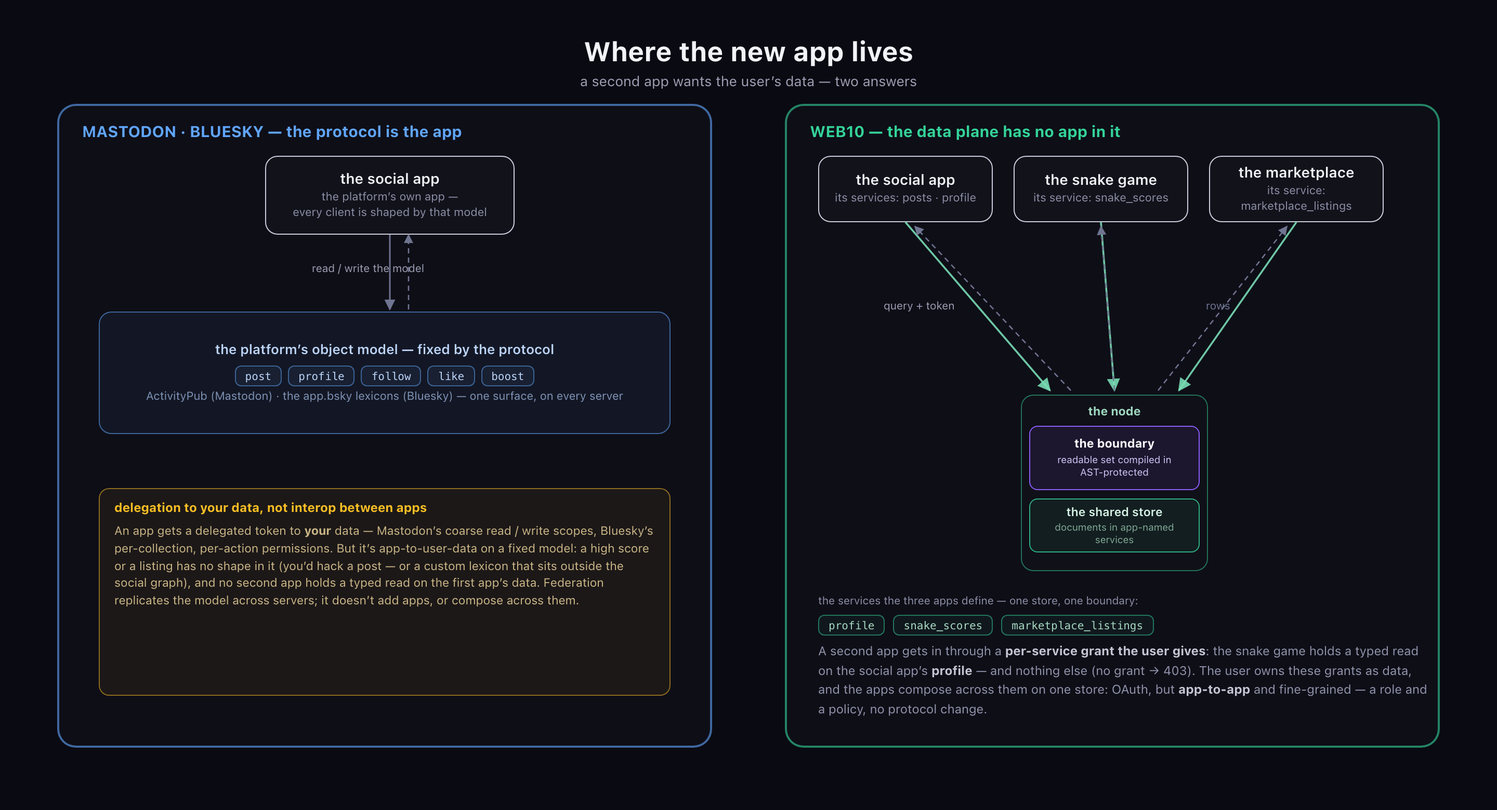
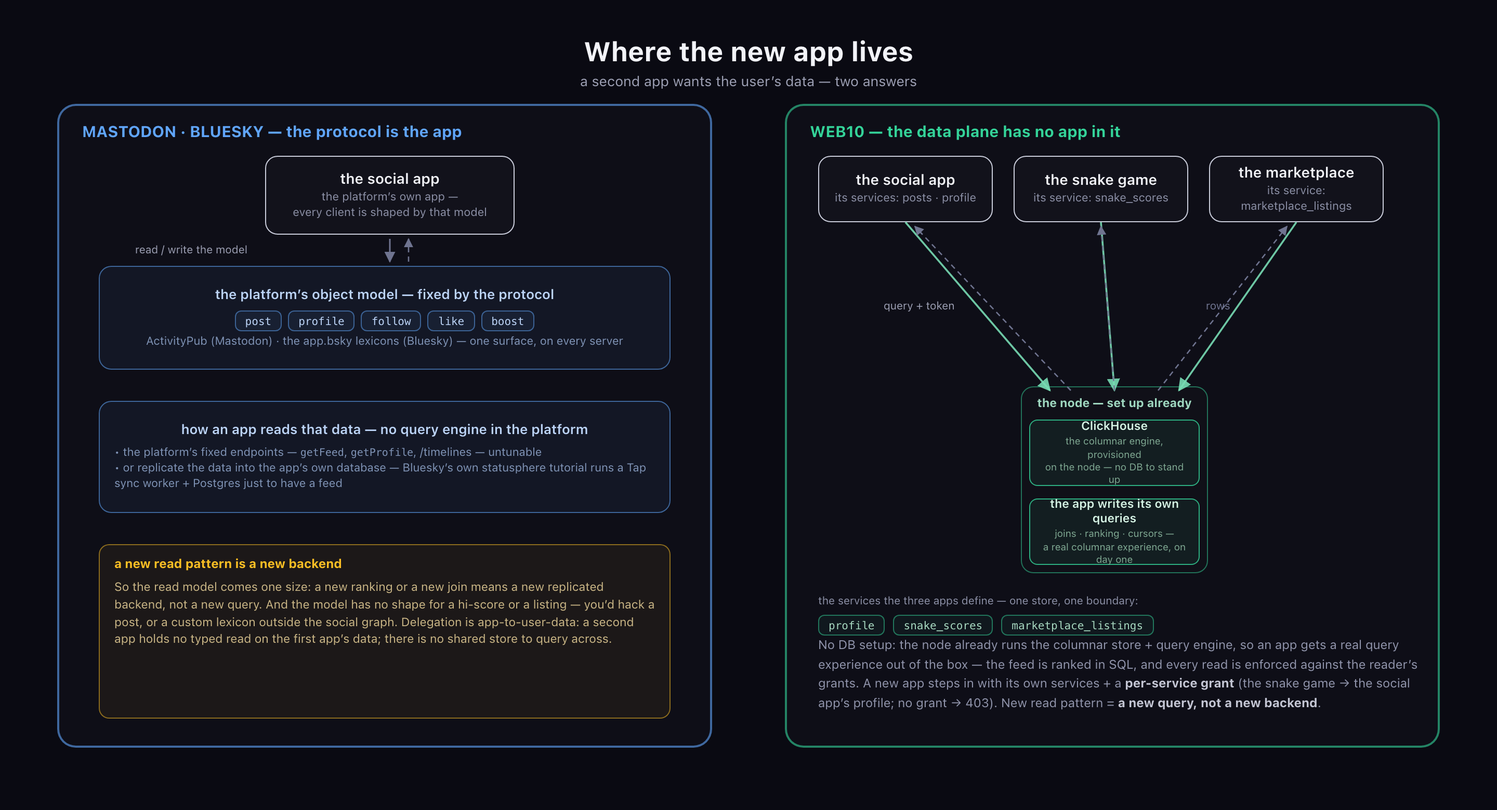
docs(research): fig-platforms re-anchored on the query engine — 'a new read pattern is a new backend', no DB setup, boundary out; figure B title polish ('— a breakdown' out)

diff --git a/research/second-draft/figs/fig-platforms.html b/research/second-draft/figs/fig-platforms.html
@@ -1,29 +1,42 @@
 <!doctype html>
 <!--
   Source for fig-platforms.png ("Where the new app lives").
-  The extensibility / interop fork, orthogonal to fig-composition (the
-  composition fork vs. Solid). The axis: how a SECOND app gets access to,
-  and composes with, EXISTING user data.
-  - MASTODON/BLUESKY: delegation to the user's data, on a fixed social
-    model. Mastodon grants coarse read/write OAuth scopes to the whole
-    model; Bluesky (AT Protocol) grants per-collection, per-action
-    permissions to the user's own repo (atproto.com/specs/permission).
-    Both are app-to-user-data, not app-to-app: a high score or a listing
-    has no shape in the social model (you'd hack a post, or a custom
-    lexicon that sits outside the social graph), and no second app holds a
-    typed read on the first app's data. No shared store to compose across.
-  - WEB10: a per-service grant, app-to-app, on a shared store. Each app
-    defines its own services in the user's store (profile, snake_scores,
-    marketplace_listings — the pinned interop names); the game and the
-    marketplace each hold a typed read on the social app's profile, join it
-    in SQL, and an ungranted app gets 403 (research/interoperability-demo).
-    It's OAuth, but app-to-app and fine-grained: a role and a policy.
-  Evidence to keep this "as clear as day": Mastodon OAuth scope docs;
-  atproto permission spec (verify version/section before printing in §9,
-  per related-work.md — the comparative gap stays OPEN). The web10 side is
-  pinned by the connected interop experiment.
-  The violet boundary box is the same mechanism as fig-composition and
-  fig-query-engine. No verdict line: the comparison lives in the caption.
+  The extensibility fork, orthogonal to fig-composition (the composition
+  fork vs. Solid). The axis: how a SECOND app reads and composes with
+  EXISTING user data — and where its queries run.
+  - MASTODON/BLUESKY: no query engine in the platform. The app either
+    calls the platform's fixed read endpoints (Bluesky's AppView
+    getFeed/getProfile; Mastodon's /timelines, /statuses — untunable), or
+    replicates public records into the app's OWN database — Bluesky's own
+    statusphere tutorial (atproto.com/guides/statusphere-tutorial) stands
+    up a Tap sync worker + Postgres just to have a feed, then queries its
+    own copy. So a new read pattern is a new backend; the read model comes
+    one size that doesn't scale. The object model (post, profile, follow,
+    like, boost) is fixed by the protocol; a hi-score or a listing has no
+    shape in it (hack a post, or a custom lexicon outside the social
+    graph). Delegation is app-to-user-data: Mastodon's coarse read/write
+    scopes; Bluesky's per-collection, per-action permissions
+    (atproto.com/specs/permission) — but no second app holds a typed read
+    on the first app's data, and there's no shared store to query across.
+  - WEB10: the columnar experience is already on the node, with no DB
+    setup. The node provisions ClickHouse + the query engine; the app
+    writes its own SELECT (the feed is ranked in SQL — feed.ts's
+    buildFeedQuery — joins, aggregation, cursors) on day one, every read
+    enforced against the reader's grants. Each app defines its own services
+    (profile, snake_scores, marketplace_listings — the pinned interop
+    names); the game and the marketplace hold a typed per-service read on
+    the social app's profile; an ungranted app gets 403
+    (research/interoperability-demo). New read pattern = a new query, not a
+    new backend: a role and a policy.
+  Evidence to keep this "as clear as day": Mastodon OAuth scope docs; the
+  atproto permission spec + the statusphere tutorial (both checked
+  05.11.2026); feed.ts's buildFeedQuery; the connected interop
+  experiment. Verify spec version/section before printing in §9
+  (related-work.md — the comparative gap stays OPEN).
+  The violet boundary box was dropped from this figure — it is
+  fig-query-engine's hero; here the point is the columnar engine already on
+  the node, not the enforcement. No verdict line: the comparison lives in
+  the caption.
   Render with ./capture.mjs fig-platforms.
 -->
 <html>
@@ -103,7 +116,7 @@
     <div class="s">the platform&rsquo;s own app &mdash;<br>every client is shaped by that model</div>
   </div>
 
-  <div class="box model" style="left: 95px; top: 300px; width: 550px; height: 118px;">
+  <div class="box model" style="left: 95px; top: 256px; width: 550px; height: 100px;">
     <div class="t">the platform&rsquo;s object model &mdash; fixed by the protocol</div>
     <div class="chiprow">
       <span class="chip blue">post</span><span class="chip blue">profile</span><span class="chip blue">follow</span><span class="chip blue">like</span><span class="chip blue">boost</span>
@@ -111,15 +124,22 @@
     <div class="s">ActivityPub (Mastodon) &middot; the app.bsky lexicons (Bluesky) &mdash; one surface, on every server</div>
   </div>
 
-  <div class="neg" style="left: 95px; top: 470px; width: 550px; height: 200px;">
-    <div class="t">delegation to your data, not interop between apps</div>
-    An app gets a delegated token to <b>your</b> data &mdash; Mastodon&rsquo;s
-    coarse read / write scopes, Bluesky&rsquo;s per-collection, per-action
-    permissions. But it&rsquo;s app-to-user-data on a fixed model: a high
-    score or a listing has no shape in it (you&rsquo;d hack a post &mdash; or a
-    custom lexicon that sits outside the social graph), and no second app
-    holds a typed read on the first app&rsquo;s data. Federation replicates
-    the model across servers; it doesn&rsquo;t add apps, or compose across them.
+  <div class="box model" style="left: 95px; top: 386px; width: 550px; height: 108px; text-align: left;">
+    <div class="t" style="text-align: center;">how an app reads that data &mdash; no query engine in the platform</div>
+    <div class="s" style="margin-top: 8px;">
+      &bull; the platform&rsquo;s fixed endpoints &mdash; <span style="font-family:'SF Mono',Menlo,monospace; font-size:10px;">getFeed</span>, <span style="font-family:'SF Mono',Menlo,monospace; font-size:10px;">getProfile</span>, /timelines &mdash; untunable<br>
+      &bull; or replicate the data into the app&rsquo;s own database &mdash; Bluesky&rsquo;s own statusphere tutorial runs a Tap sync worker + Postgres just to have a feed
+    </div>
+  </div>
+
+  <div class="neg" style="left: 95px; top: 524px; width: 550px; height: 168px;">
+    <div class="t">a new read pattern is a new backend</div>
+    So the read model comes one size: a new ranking or a new join means a new
+    replicated backend, not a new query. And the model has no shape for a
+    hi-score or a listing &mdash; you&rsquo;d hack a post, or a custom lexicon
+    outside the social graph. Delegation is app-to-user-data: a second app
+    holds no typed read on the first app&rsquo;s data; there is no shared
+    store to query across.
   </div>
 
   <!-- WEB10 panel -->
@@ -139,27 +159,27 @@
     <div class="s">its service: marketplace_listings</div>
   </div>
 
-  <div class="nodecard" style="left: 982px; top: 380px;"><div class="n">the node</div></div>
-  <div class="boundary" style="left: 990px; top: 410px;">
-    <div class="t">the boundary</div>
-    <div class="s">readable set compiled in<br>AST-protected</div>
+  <div class="nodecard" style="left: 982px; top: 372px; height: 180px;"><div class="n">the node &mdash; set up already</div></div>
+  <div class="store" style="left: 990px; top: 404px; height: 64px;">
+    <div class="t">ClickHouse</div>
+    <div class="s">the columnar engine, provisioned<br>on the node &mdash; no DB to stand up</div>
   </div>
-  <div class="store" style="left: 990px; top: 480px;">
-    <div class="t">the shared store</div>
-    <div class="s">documents in app-named services</div>
+  <div class="store" style="left: 990px; top: 480px; height: 64px;">
+    <div class="t">the app writes its own queries</div>
+    <div class="s">joins &middot; ranking &middot; cursors &mdash;<br>a real columnar experience, on day one</div>
   </div>
 
   <div class="slabel" style="left: 787px; top: 572px;">the services the three apps define &mdash; one store, one boundary:</div>
   <div style="position: absolute; left: 787px; top: 592px; display: flex; gap: 8px;">
     <span class="chip">profile</span><span class="chip">snake_scores</span><span class="chip">marketplace_listings</span>
   </div>
-  <div class="note" style="left: 787px; top: 618px; width: 590px;">
-    A second app gets in through a <b>per-service grant the user gives</b>:
-    the snake game holds a typed read on the social app&rsquo;s <b>profile</b>
-    &mdash; and nothing else (no grant &rarr; 403). The user owns these grants
-    as data, and the apps compose across them on one store: OAuth, but
-    <b>app-to-app</b> and fine-grained &mdash; a role and a policy, no protocol
-    change.
+  <div class="note" style="left: 787px; top: 612px; width: 590px;">
+    No DB setup: the node already runs the columnar store + query engine, so
+    an app gets a real query experience out of the box &mdash; the feed is
+    ranked in SQL, and every read is enforced against the reader&rsquo;s
+    grants. A new app steps in with its own services + a <b>per-service
+    grant</b> (the snake game &rarr; the social app&rsquo;s profile; no grant
+    &rarr; 403). New read pattern = <b>a new query, not a new backend</b>.
   </div>
 
   <!-- arrows -->
@@ -173,8 +193,8 @@
       </marker>
     </defs>
     <!-- fed: the social app reads/writes the model -->
-    <line x1="375" y1="226" x2="375" y2="298" stroke="#6f7490" stroke-width="1.5" marker-end="url(#m-gray)"/>
-    <line x1="393" y1="298" x2="393" y2="226" stroke="#6f7490" stroke-width="1.3" stroke-dasharray="5 4" marker-end="url(#m-gray)"/>
+    <line x1="375" y1="230" x2="375" y2="252" stroke="#6f7490" stroke-width="1.5" marker-end="url(#m-gray)"/>
+    <line x1="393" y1="252" x2="393" y2="230" stroke="#6f7490" stroke-width="1.3" stroke-dasharray="5 4" marker-end="url(#m-gray)"/>
     <!-- web10: three apps -> the node (query + token) -->
     <line x1="871" y1="214" x2="1010" y2="376" stroke="rgba(120,220,180,.9)" stroke-width="1.8" marker-end="url(#m-green)"/>
     <line x1="1059" y1="214" x2="1072" y2="376" stroke="rgba(120,220,180,.9)" stroke-width="1.8" marker-end="url(#m-green)"/>
@@ -184,7 +204,7 @@
     <line x1="1072" y1="376" x2="1059" y2="218" stroke="#6f7490" stroke-width="1.3" stroke-dasharray="5 4" marker-end="url(#m-gray)"/>
     <line x1="1114" y1="376" x2="1238" y2="218" stroke="#6f7490" stroke-width="1.3" stroke-dasharray="5 4" marker-end="url(#m-gray)"/>
   </svg>
-  <div class="wlabel" style="left: 300px; top: 252px;">read / write the model</div>
+  <div class="wlabel" style="left: 130px; top: 234px;">read / write the model</div>
   <div class="wlabel" style="left: 850px; top: 288px;">query + token</div>
   <div class="wlabel" style="left: 1160px; top: 288px; color: #6f7490;">rows</div>
 </body>

diff --git a/research/second-draft/figs/fig-query-engine.html b/research/second-draft/figs/fig-query-engine.html
@@ -1,7 +1,7 @@
 <!doctype html>
 <!--
-  Source for fig-query-engine.png (Figure B, shot 6: "reading a social feed
-  on web10 — a breakdown"). The entire end-to-end journey, in three layers
+  Source for fig-query-engine.png (Figure B, shot 7: "reading a social feed
+  on web10"). The entire end-to-end journey, in three layers
   (the app + SDK in the browser, the node's API, the ClickHouse store).
   Accuracy note (the shot-3 miss this fixes): the AST work is
   API-side. The app's TypeScript builds the query (feed.ts: buildFeedQuery),
@@ -75,7 +75,7 @@
 </style>
 </head>
 <body>
-  <div class="title">Reading a social feed on web10 &mdash; a breakdown</div>
+  <div class="title">Reading a social feed on web10</div>
   <div class="subtitle">The entire end-to-end journey, in three layers: the app, the node (the API), and the store (ClickHouse)</div>
 
   <!-- tier 1: the browser (app code + SDK) -->

diff --git a/research/second-draft/kb/diagrams.md b/research/second-draft/kb/diagrams.md
@@ -190,32 +190,36 @@ again.
 ### Figure 9 — where the new app lives: the federated-social fork (done,
 `figs/fig-platforms.png`, §6/§9)
 
-**What it visualizes:** the extensibility / interop fork — how a second
-app gets access to, and composes with, existing user data. Left
-(Mastodon · Bluesky, blue): the fixed social object model (post ·
-profile · follow · like · boost — ActivityPub's types, the app.bsky
-lexicons); delegation to the user's data — Mastodon's coarse read/write
-scopes, Bluesky's per-collection, per-action permissions
-(atproto.com/specs/permission) — but app-to-user-data: no record shape
-for a hi-score or a listing (hack a post, or a custom lexicon outside the
-social graph), no second app holds a typed read on the first app's data,
-and federation replicates the model across servers. Right (web10,
-green): three apps each owning their services (`profile` ·
-`snake_scores` · `marketplace_listings` — the pinned interop names), one
-node, the same violet boundary; a second app gets in through a
-per-service grant the user gives — a typed read on the social app's
-profile, composable in SQL, 403 without the grant.
-**Why that shape:** the operator's "like oauth on steroids" made
-explicit — the differentiator is app-to-app vs. app-to-user-data, NOT
-"no fine-grained IAM" (Bluesky has per-collection, per-action
-permissions — the first shot's "no typed per-service grants" claim was
-wrong and was pulled). Data shape is the left panel's mechanism, not a
-verdict.
-**Evidence (keep it "as clear as day"):** Mastodon OAuth scope docs ·
-the atproto OAuth + Permissions specs (checked 05.11.2026) ·
-`research/interoperability-demo` (the connected experiment). Pin the
-spec's version/section before §9 prints, per `research/related-work.md`
-(the comparative gap stays OPEN).
+**What it visualizes:** the extensibility fork, re-anchored on the query
+engine (4.10.29) — how a second app reads and composes with existing user
+data, and where its queries run. Left (Mastodon · Bluesky, blue): the
+fixed social object model (post · profile · follow · like · boost);
+**no query engine in the platform** — the app reads via the platform's
+fixed endpoints (getFeed / getProfile / /timelines, untunable) or
+replicates records into its own database (Bluesky's own statusphere
+tutorial: a Tap sync worker + Postgres, just to have a feed); "a new
+read pattern is a new backend"; no record shape for a hi-score or a
+listing. Right (web10, green): **the node — set up already**: ClickHouse
+provisioned on the node, no DB to stand up; the app writes its own
+queries on day one (joins · ranking · cursors); three apps each owning
+their services (`profile` · `snake_scores` · `marketplace_listings` —
+the pinned interop names); a second app gets in through a per-service
+grant the user gives (snake game → the social app's profile; no grant →
+403). New read pattern = a new query, not a new backend.
+**Why that shape:** the operator's "does bluesky give that clickhouse BI
+power? i bet not … you couldnt tune the feed, this lets you write
+whatever clickhouse you want" made mechanism-first — the contrast is the
+columnar engine already on the node, no DB setup, vs. fixed endpoints or
+your own replicated backend. The boundary box was dropped from this
+figure (operator: "we cant have this pitchy, the boundary") — it is
+fig-query-engine's hero; this figure's hero is the columnar experience.
+The 4.10.27 re-anchor (app-to-app vs. app-to-user-data; "no fine-grained
+IAM" was wrong for Bluesky and was pulled) is retained in the note.
+**Evidence (keep it "as clear as day"):** atproto guides/statusphere-
+tutorial + specs/permission + the AppView read model · Mastodon REST /
+OAuth docs · feed.ts's buildFeedQuery · `research/interoperability-demo`
+(all checked 05.11.2026). Pin the spec's version/section before §9
+prints, per `research/related-work.md` (the comparative gap stays OPEN).
 
 ### Candidates (not started)
 
@@ -241,5 +245,5 @@ spec's version/section before §9 prints, per `research/related-work.md`
 | 6 | Domain portability | §8 | existing |
 | 7 | Groups UI | §6 | existing; cut candidate |
 | 8 | Where the composition happens (the Solid fork) | §3/§9 | **done** (4.10.23, `fig-composition`) |
-| 9 | Where the new app lives (the federated-social fork) | §6/§9 | **done** (4.10.27, `fig-platforms`) |
+| 9 | Where the new app lives (the federated-social fork) | §6/§9 | **done** (4.10.29, `fig-platforms`) |
 | — | Two trust layers / data model | §2/§3 | candidates |

diff --git a/research/second-draft/DECISIONS.md b/research/second-draft/DECISIONS.md
@@ -10,6 +10,64 @@ oracles, the spine, the shot loop, the craft, the ops).
 
 ## 05.11.2026
 
+### fig-platforms re-anchored on the query engine — "does bluesky give that clickhouse BI power? i bet not"
+
+- **(operator)** "does bluesky give that clickhouse BI power? i bet not it
+  is just basic CRUD stuff to make a social app, cant make real apps on
+  that lets be REAL, like how we tore Solid a new one, like come one that
+  doesnt scale … bluesky has
+  https://atproto.com/guides/statusphere-tutorial create a social app, but
+  you couldnt tune the feed, this lets you write whatever clickhouse you
+  WANT!!!!"
+- **(agent)** Verified against their own docs, and it is real: AT Protocol
+  has **no query engine an app can write against**. Reads are either the
+  platform's fixed endpoints (AppView's getFeed / getProfile; Mastodon's
+  /timelines, /statuses — untunable), or the app replicates public records
+  into its **own** database. Bluesky's own statusphere tutorial (checked
+  05.11.2026) proves the cost: to build even a trivial status app it stands
+  up a **Tap sync worker + a Postgres database**, then queries its own copy
+  (getRecentStatuses / getTopStatuses are SQL against the app's Postgres,
+  not the protocol). So "tune the feed" = build a whole replicated backend.
+  That is the "come one that doesn't scale" point, made mechanism-first.
+- **(agent)** Figure reworked (`fig-platforms`): the left panel now leads
+  with "how an app reads that data — no query engine in the platform" (the
+  two read paths: fixed endpoints, or replicate into the app's own DB —
+  statusphere cited), and the amber box is "a new read pattern is a new
+  backend." The right panel's focus is the columnar experience with no DB
+  setup: the node card is "the node — set up already," carrying
+  "ClickHouse — the columnar engine, provisioned on the node — no DB to
+  stand up" + "the app writes its own queries — joins · ranking · cursors —
+  a real columnar experience, on day one." The violet boundary box was
+  dropped (operator: "we cant have this pitchy, the boundary … more
+  focused that we are providing this proper columnar experience with NO
+  db setup, it is set up already, on top of the nodes in the network
+  already" — the boundary is fig-query-engine's hero, not this figure's).
+  The note: "No DB setup: the node already runs the columnar store + query
+  engine … New read pattern = a new query, not a new backend." The 4.10.27
+  app-to-app / per-service-grant point is retained in that note.
+- **(operator)** Same turn, on the figure's emphasis: "in fig platforms,
+  we cant have this pitchy, the boundary, we are showing our architecture
+  diagram / query engine diagram kind of there!!! but more focused that we
+  are providing this proper columnar experience with NO db setup, it is set
+  up already, on top of the nodes int he network already"
+- **(agent)** Evidence trail (keep it "as clear as day"): atproto
+  guides/statusphere-tutorial + specs/permission + the AppView read model ·
+  Mastodon REST / OAuth docs · feed.ts's buildFeedQuery (the feed ranked in
+  SQL) · the connected interop experiment. related-work.md's AT row
+  updated; the comparative gap stays **OPEN**.
+
+### Figure B title polish: "— a breakdown" is out; the title is "Reading a social feed on web10"
+
+- **(operator)** "a breakdown actually in that title doesnt look good can
+  you suggest a title! defintiely better though it is an imporvement, just
+  want to get it perfect"
+- **(agent)** Shortlist fired: A "Reading a social feed on web10" (the
+  operator's own wording minus the tail) · B "Where a feed read runs"
+  (the family register — "Where the composition happens") · C "The feed
+  read, from the app to the store." A applied — the "entire end-to-end
+  journey, in three layers" framing stays in the subtitle, so nothing is
+  lost. Re-rendered and inspected.
+
 ### The federated-social comparison figure re-anchored: app-to-app vs. app-to-user-data; Bluesky's per-collection permissions are real
 
 - **(operator)** "in mastodon bluesky diagram, it is saying silo, all this

diff --git a/knowledge-base/changelogs/CHANGELOG.md b/knowledge-base/changelogs/CHANGELOG.md
@@ -1,3 +1,9 @@
+4.10.29 || 05.11.2026
+docs(research): fig-platforms re-anchored on the query engine — "does bluesky give that clickhouse BI power? i bet not." Operator: "it is just basic CRUD stuff to make a social app, cant make real apps on that … you couldnt tune the feed, this lets you write whatever clickhouse you WANT!!!!" + "we cant have this pitchy, the boundary … more focused that we are providing this proper columnar experience with NO db setup, it is set up already, on top of the nodes in the network already." Verified against Bluesky's own statusphere tutorial (05.11.2026): AT Protocol has no query engine an app can write against — reads are the platform's fixed endpoints (AppView's getFeed/getProfile; Mastodon's /timelines, /statuses) or the app replicates records into its own database; the tutorial stands up a Tap sync worker + Postgres just to have a feed, then queries its own copy. Left panel: "how an app reads that data — no query engine in the platform" (the two read paths, statusphere cited) + the amber "a new read pattern is a new backend." Right panel: "the node — set up already": ClickHouse provisioned on the node, no DB to stand up; the app writes its own queries on day one (joins · ranking · cursors); the pitchy boundary box was dropped (it's fig-query-engine's hero); the note now leads "No DB setup …" and closes "New read pattern = a new query, not a new backend" (the 4.10.27 app-to-app per-service-grant point retained). Evidence: atproto statusphere tutorial + permission spec · Mastodon REST/OAuth docs · feed.ts's buildFeedQuery · the connected interop experiment; related-work.md's AT row updated (gap stays OPEN). HTML + 2x PNG rendered and inspected. No manuscript prose changed. Next gate: the outline shots.
+
+4.10.28 || 05.11.2026
+docs(research): Figure B title polish — "— a breakdown" is out; the title is now "Reading a social feed on web10." Operator: "a breakdown actually in that title doesnt look good can you suggest a title! defintiely better though it is an imporvement, just want to get it perfect." Shortlist fired (A: the operator's own wording minus the tail · B: "Where a feed read runs", the family register · C: "The feed read, from the app to the store"); A applied — the "entire end-to-end journey, in three layers: the app, the node (the API), and the store (ClickHouse)" framing stays in the subtitle, so nothing is lost. Re-rendered and inspected. No manuscript prose changed.
+
 4.10.27 || 05.11.2026
 docs(research): the federated-social comparison figure ("Where the new app lives", fig-platforms) re-anchored on app-to-app vs. app-to-user-data, after the operator's "does bluesky expose the iam stuff?" The AT Protocol Permissions spec (atproto.com/specs/permission, checked 05.11.2026) grants apps per-collection, per-action permissions over the user's own repo, user-approved at consent, bundleable into permission sets — finer than Mastodon's coarse read/write scopes — so the first shot's "no typed, per-service grants" claim was wrong for Bluesky and is out. The contrast is now: (1) data shape — the social model has no record type for a hi-score or a listing (you'd hack a post, or a custom lexicon that sits outside the social graph); (2) interop — delegation is app-to-user-data, not app-to-app: no second app holds a typed read on the first app's data, and there is no shared store to compose across. The web10 panel makes the operator's "oauth on steroids" explicit: a per-service grant lets the snake game hold a typed read on the social app's profile and join it in SQL on one store — pinned by the interop experiment (profile / snake_scores / marketplace_listings, the join, 403 without the grant). The pitchy "silo" framing is out. Evidence trail: Mastodon OAuth docs + the atproto specs + the connected interop demo; related-work.md's AT row updated, the comparative gap stays OPEN (pin spec version/section before §9 prints). HTML + 2x PNG rendered and inspected. No manuscript prose changed. Next gate: the outline shots.
 

diff --git a/research/related-work.md b/research/related-work.md
@@ -19,7 +19,7 @@ monetization is out of scope. No universal absence or first-ever claim follows.
 | Solid and Community Solid Server | `solid2016`, `solid-demo2016`, `solid-apps2016`, `solid-protocol2024`, `css2024` | Inspect current server and cross-Pod query work; compare composition, deployment and trust boundaries. Do not assert Solid never shipped or cross-Pod querying is impossible. |
 | Solid authorization | `wac2022`, `acp2022` | WAC has `acl:agentGroup`; ACP includes client/issuer matchers. Compare these with per-service role maps, grant lifecycle and query enforcement; do not call Solid group/client authorization absent. |
 | ActivityPub and ActivityPods | `activitypub2018`, `activitypods` | Separate the W3C protocol from framework implementations. Inspect actual authorization/query behavior; the ActivityPods project page alone cannot establish a technical gap. |
-| AT Protocol | `kleppmann2024` | Compare repositories, AppViews, visibility and authorization as described, then check relevant current work. Do not infer all implementation limits from the 2024 paper. Checked 05.11.2026 against the live specs (atproto.com/specs/oauth + /specs/permission): apps get delegated per-collection / per-action permissions over the user's own repo (app-to-user-data, user-approved, bundleable into permission sets); the social surface stays the fixed `app.bsky` lexicons — no app-to-app typed grants, no shared store to compose across. That is the fig-platforms contrast; pin the spec's version/section before §9 prints. |
+| AT Protocol | `kleppmann2024` | Compare repositories, AppViews, visibility and authorization as described, then check relevant current work. Do not infer all implementation limits from the 2024 paper. Checked 05.11.2026 against the live specs (atproto.com/specs/oauth + /specs/permission): apps get delegated per-collection / per-action permissions over the user's own repo (app-to-user-data, user-approved, bundleable into permission sets); the social surface stays the fixed `app.bsky` lexicons — no app-to-app typed grants, no shared store to compose across. Also checked: no query engine for apps — reads go through the platform's fixed AppView endpoints, or the app replicates records into its own database (their statusphere tutorial stands up a Tap sync worker + Postgres just to have a feed, then queries its own copy). That is the fig-platforms contrast; pin the spec's version/section before §9 prints. |
 | RBAC, ABAC and IAM | `ferraiolo1992`, `sandhu1996`, `abac2014`, `awsiam` | Established foundations, not missing inventions. Explain the integration's user-facing policy management without claiming IAM was never exposed to end users. AWS documentation is not performance evidence. |
 | Relationship/global authorization | `zanzibar2019` | Compare relationship modeling, consistency and revocation semantics. No equivalent scale or consistency claim for web10 without evidence. |
 | Shared-table multi-tenancy and RLS | `jacobs2007`, `aulbach2008`, `force2009`, `postgres-rls` | Direct antecedents: logical tenant isolation in shared storage. Compare equivalent policies and query composition; do not portray web10 as physical DB-per-user or policies as inexpressible in RLS. |

diff --git a/knowledge-base/strategy/plan.md b/knowledge-base/strategy/plan.md
@@ -1286,6 +1286,10 @@ docs before code, per the rule at the top.
 
 ## SIGMOD 2027 Industry Track — the full paper (research/)
 
+- [✓ 4.10.29 local] **fig-platforms re-anchored on the query engine — "does bluesky give that clickhouse BI power? i bet not"** - verified on Bluesky's own statusphere tutorial: no query engine an app writes against (fixed endpoints, or replicate into your own DB — the tutorial builds a Tap worker + Postgres just for a feed). Left: "no query engine in the platform" + "a new read pattern is a new backend"; right: "the node — set up already" (the columnar engine, provisioned, NO db setup), the pitchy boundary box dropped (fig-query-engine's hero, not this figure's). The 4.10.27 app-to-app grant point retained. related-work AT row updated; gap stays OPEN. No manuscript prose changed. Next gate: the outline shots.
+
+- [✓ 4.10.28 local] **Figure B title polish — "— a breakdown" is out** - operator: "a breakdown actually in that title doesnt look good can you suggest a title! defintiely better though it is an imporvement, just want to get it perfect." Title is now "Reading a social feed on web10" (the operator's own wording minus the tail); alternatives on record ("Where a feed read runs", "The feed read, from the app to the store"); the E2E / three-layers framing stays in the subtitle. Re-rendered. No manuscript prose changed.
+
 - [✓ 4.10.27 local] **The federated-social comparison figure re-anchored — app-to-app vs. app-to-user-data** - operator: "the data model doesnt support hi scores … this is definitely about data shape … does bluesky expose the iam stuff?" + "that another app can get into the iam of the other app … like oauth on steroids … we can back everything up it is as clear as day." The AT Protocol Permissions spec (per-collection, per-action permissions over the user's own repo, checked 05.11.2026) is real — the "no fine-grained grants" claim was wrong for Bluesky and is out; the contrast is now data shape (no hi-score/listing in the model — hack a post, or a custom lexicon outside the social graph) + interop (delegation is app-to-user-data, not app-to-app; no shared store to compose across). The web10 panel: a per-service grant is app-to-app, "OAuth, but app-to-app and fine-grained." Evidence: atproto specs + Mastodon OAuth docs + the pinned interop experiment; related-work.md's AT row updated (gap stays OPEN). No manuscript prose changed. Next gate: the outline shots.
 
 - [✓ 4.10.26 local] **Figure B retitled + re-captioned — "Reading a social feed on web10 — a breakdown"** - operator: "from service names to the reader's readable set is a terrible title, could just be called reading a social feed on web10 - breakdown" + "clarify this is the app side function called to read the social feed … a caption that this is the whole E2E journey through web10 to read the feed! those are the three layers!" New title; the app-code note is now "the app-side function called to read the social feed"; the subtitle names the three layers (the app · the node (the API) · the store (ClickHouse)). No mechanism changed. No manuscript prose changed. Next gate: the outline shots.

diff --git a/knowledge-base/strategy/parallel-execution.md b/knowledge-base/strategy/parallel-execution.md
@@ -1441,6 +1441,10 @@ starting.
 
 ### Lane: sigmod-paper (SIGMOD 2027 industry track)
 
+- [✓ 4.10.29 local] **fig-platforms re-anchored on the query engine — "does bluesky give that clickhouse BI power? i bet not"** — verified on their own statusphere tutorial (Tap + Postgres just to have a feed); no query engine an app writes against. Left: "no query engine in the platform" / "a new read pattern is a new backend"; right: "the node — set up already" (columnar engine, provisioned, NO db setup), the pitchy boundary box dropped. The 4.10.27 app-to-app grant point retained; related-work AT row updated, gap stays OPEN. **Next gate: the outline shots — the 12 beats → section mapping (presented in-thread, awaiting the pass), then the diagram shots, then the sections.**
+
+- [✓ 4.10.28 local] **Figure B title polish — "— a breakdown" is out** — "a breakdown actually in that title doesnt look good can you suggest a title!" Title now "Reading a social feed on web10" (operator's wording minus the tail); alternatives on record ("Where a feed read runs", "The feed read, from the app to the store"); the E2E / three-layers framing stays in the subtitle.
+
 - [✓ 4.10.27 local] **The federated-social comparison figure re-anchored — app-to-app vs. app-to-user-data** — "does bluesky expose the iam stuff?" → it does (AT's per-collection, per-action repo permissions — the "no fine-grained grants" claim was wrong and is out); the contrast is now data shape (no hi-score/listing in the model — hack a post, or a custom lexicon outside the social graph) + interop ("like oauth on steroids" — a second app holds a typed read on the first app's service, composable on one store; pinned by the interop experiment). Every line backed by spec/experiment evidence; related-work.md AT row updated, gap stays OPEN. **Next gate: the outline shots — the 12 beats → section mapping (presented in-thread, awaiting the pass), then the diagram shots, then the sections.**
 
 - [✓ 4.10.26 local] **Figure B retitled + re-captioned — "Reading a social feed on web10 — a breakdown"** — "from service names to the reader's readable set is a terrible title" + "the whole E2E journey through web10 to read the feed! those are the three layers!" New title; app-code note → "the app-side function called to read the social feed"; subtitle names the three layers (the app · the node (the API) · the store (ClickHouse)). No mechanism changed. **Next gate: the outline shots — the 12 beats → section mapping (presented in-thread, awaiting the pass), then the diagram shots, then the sections.**
